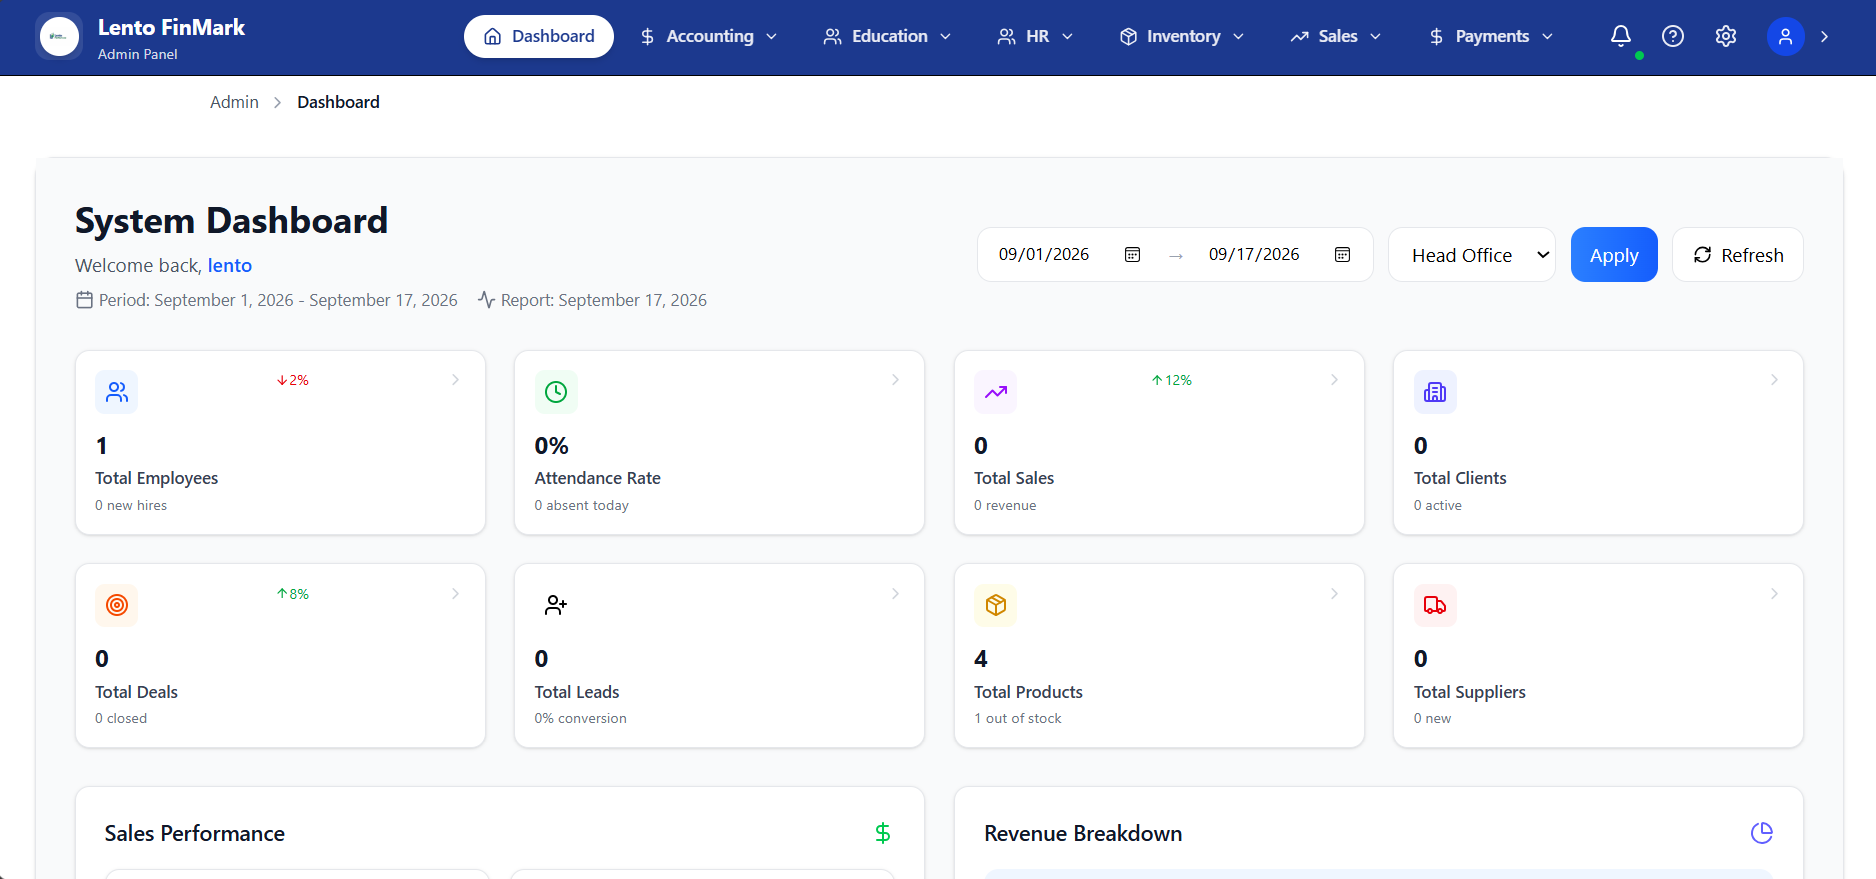
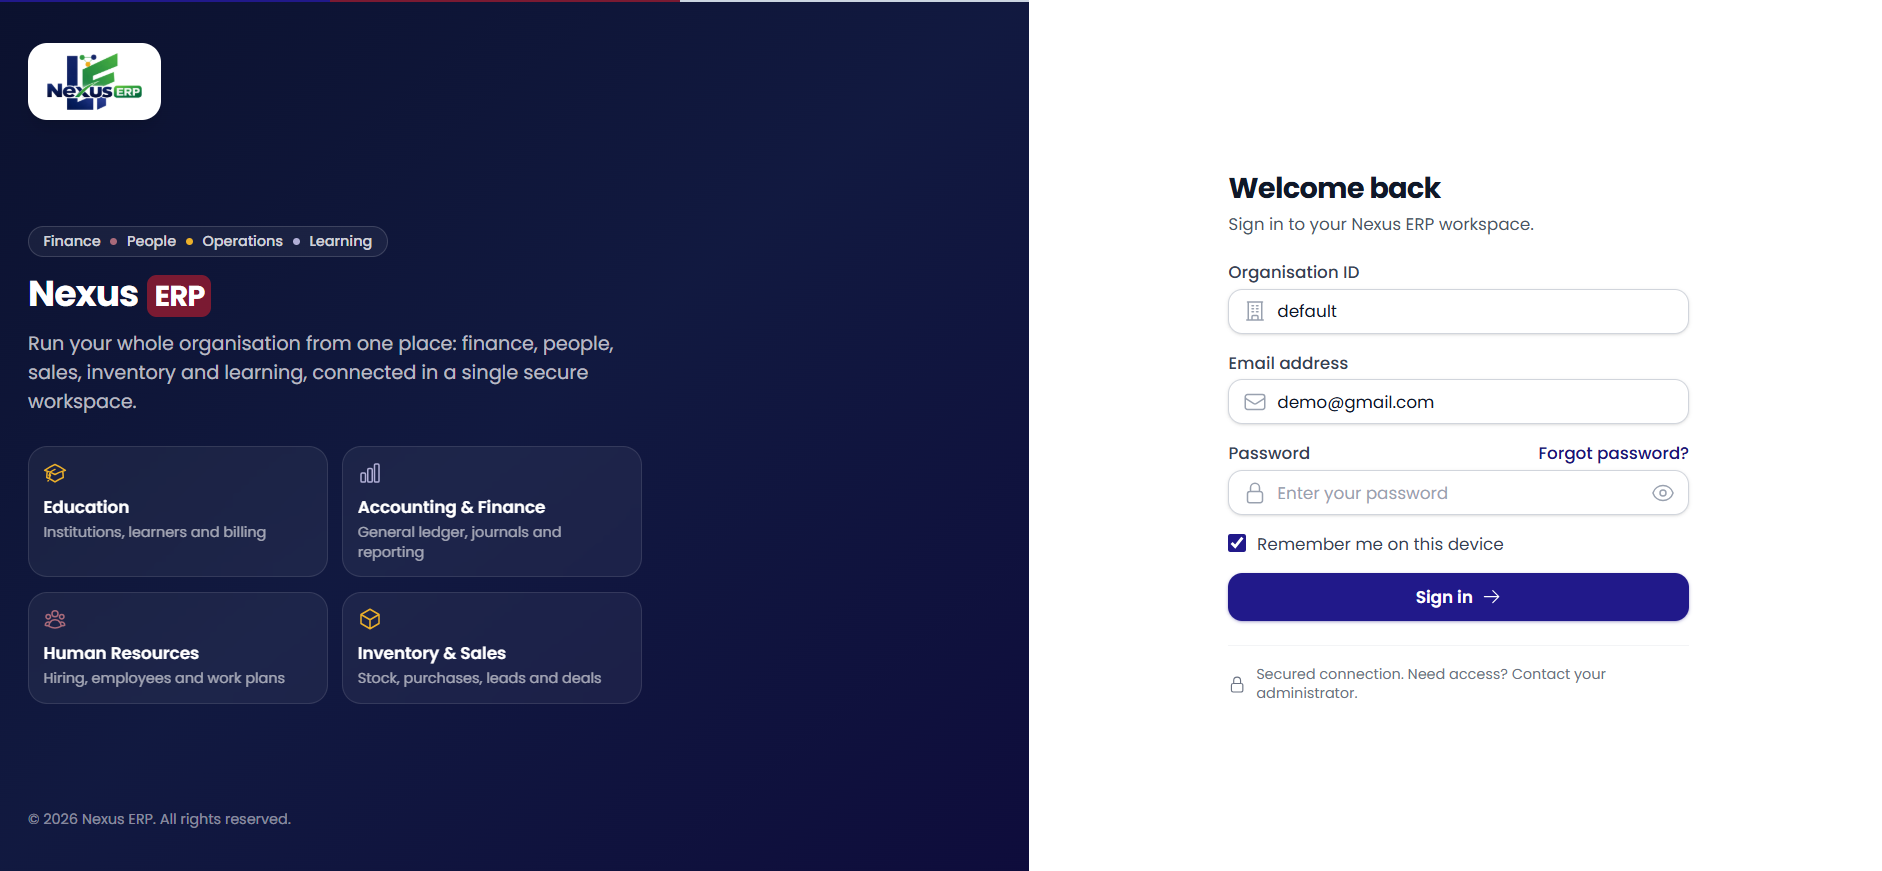
Additional Projects

diff --git a/src/data/portifolio.jsx b/src/data/portifolio.jsx
@@ -10,6 +10,7 @@ import lento from "../assets/lento.png"
 import finmark from "../assets/finmark.png"
 import bivas from "../assets/bivas.png"
 import mobility from "../assets/mobility.png"
+import swan from "../assets/swan.png"
 
 
 export const personalInfo = {
@@ -135,7 +136,7 @@ export const projects = [
         ],
 
         github: "",
-        live: "https://lentofinmark.com/login"
+        live: "https://nesfinmark.lentofinmark.com/login"
     },
 
     {
@@ -278,6 +279,34 @@ export const projects = [
 
         github: "",
         live: "https://bivastechnologies.com",
+    },
+    {
+        title: "SwanSerenity",
+        subtitle: "Software Company Portfolio Website",
+        category: "Website",
+        image: swan,
+
+        description:
+            "A professional company website for Swan Serenity Company dealing in Fumigation, Cleaning services and Pest Control.",
+
+        highlights: [
+            "Clean and responsive business website design.",
+            "Services, projects, and company portfolio pages.",
+            "Interactive contact and inquiry sections.",
+            "Modern animations and smooth navigation.",
+            "Optimized for performance and user experience."
+        ],
+
+        tech: [
+            "React",
+            "Tailwind CSS",
+            "JavaScript",
+            "Framer Motion",
+            "Vite"
+        ],
+
+        github: "",
+        live: "https://swanserenity.com",
     }
 ];
 
